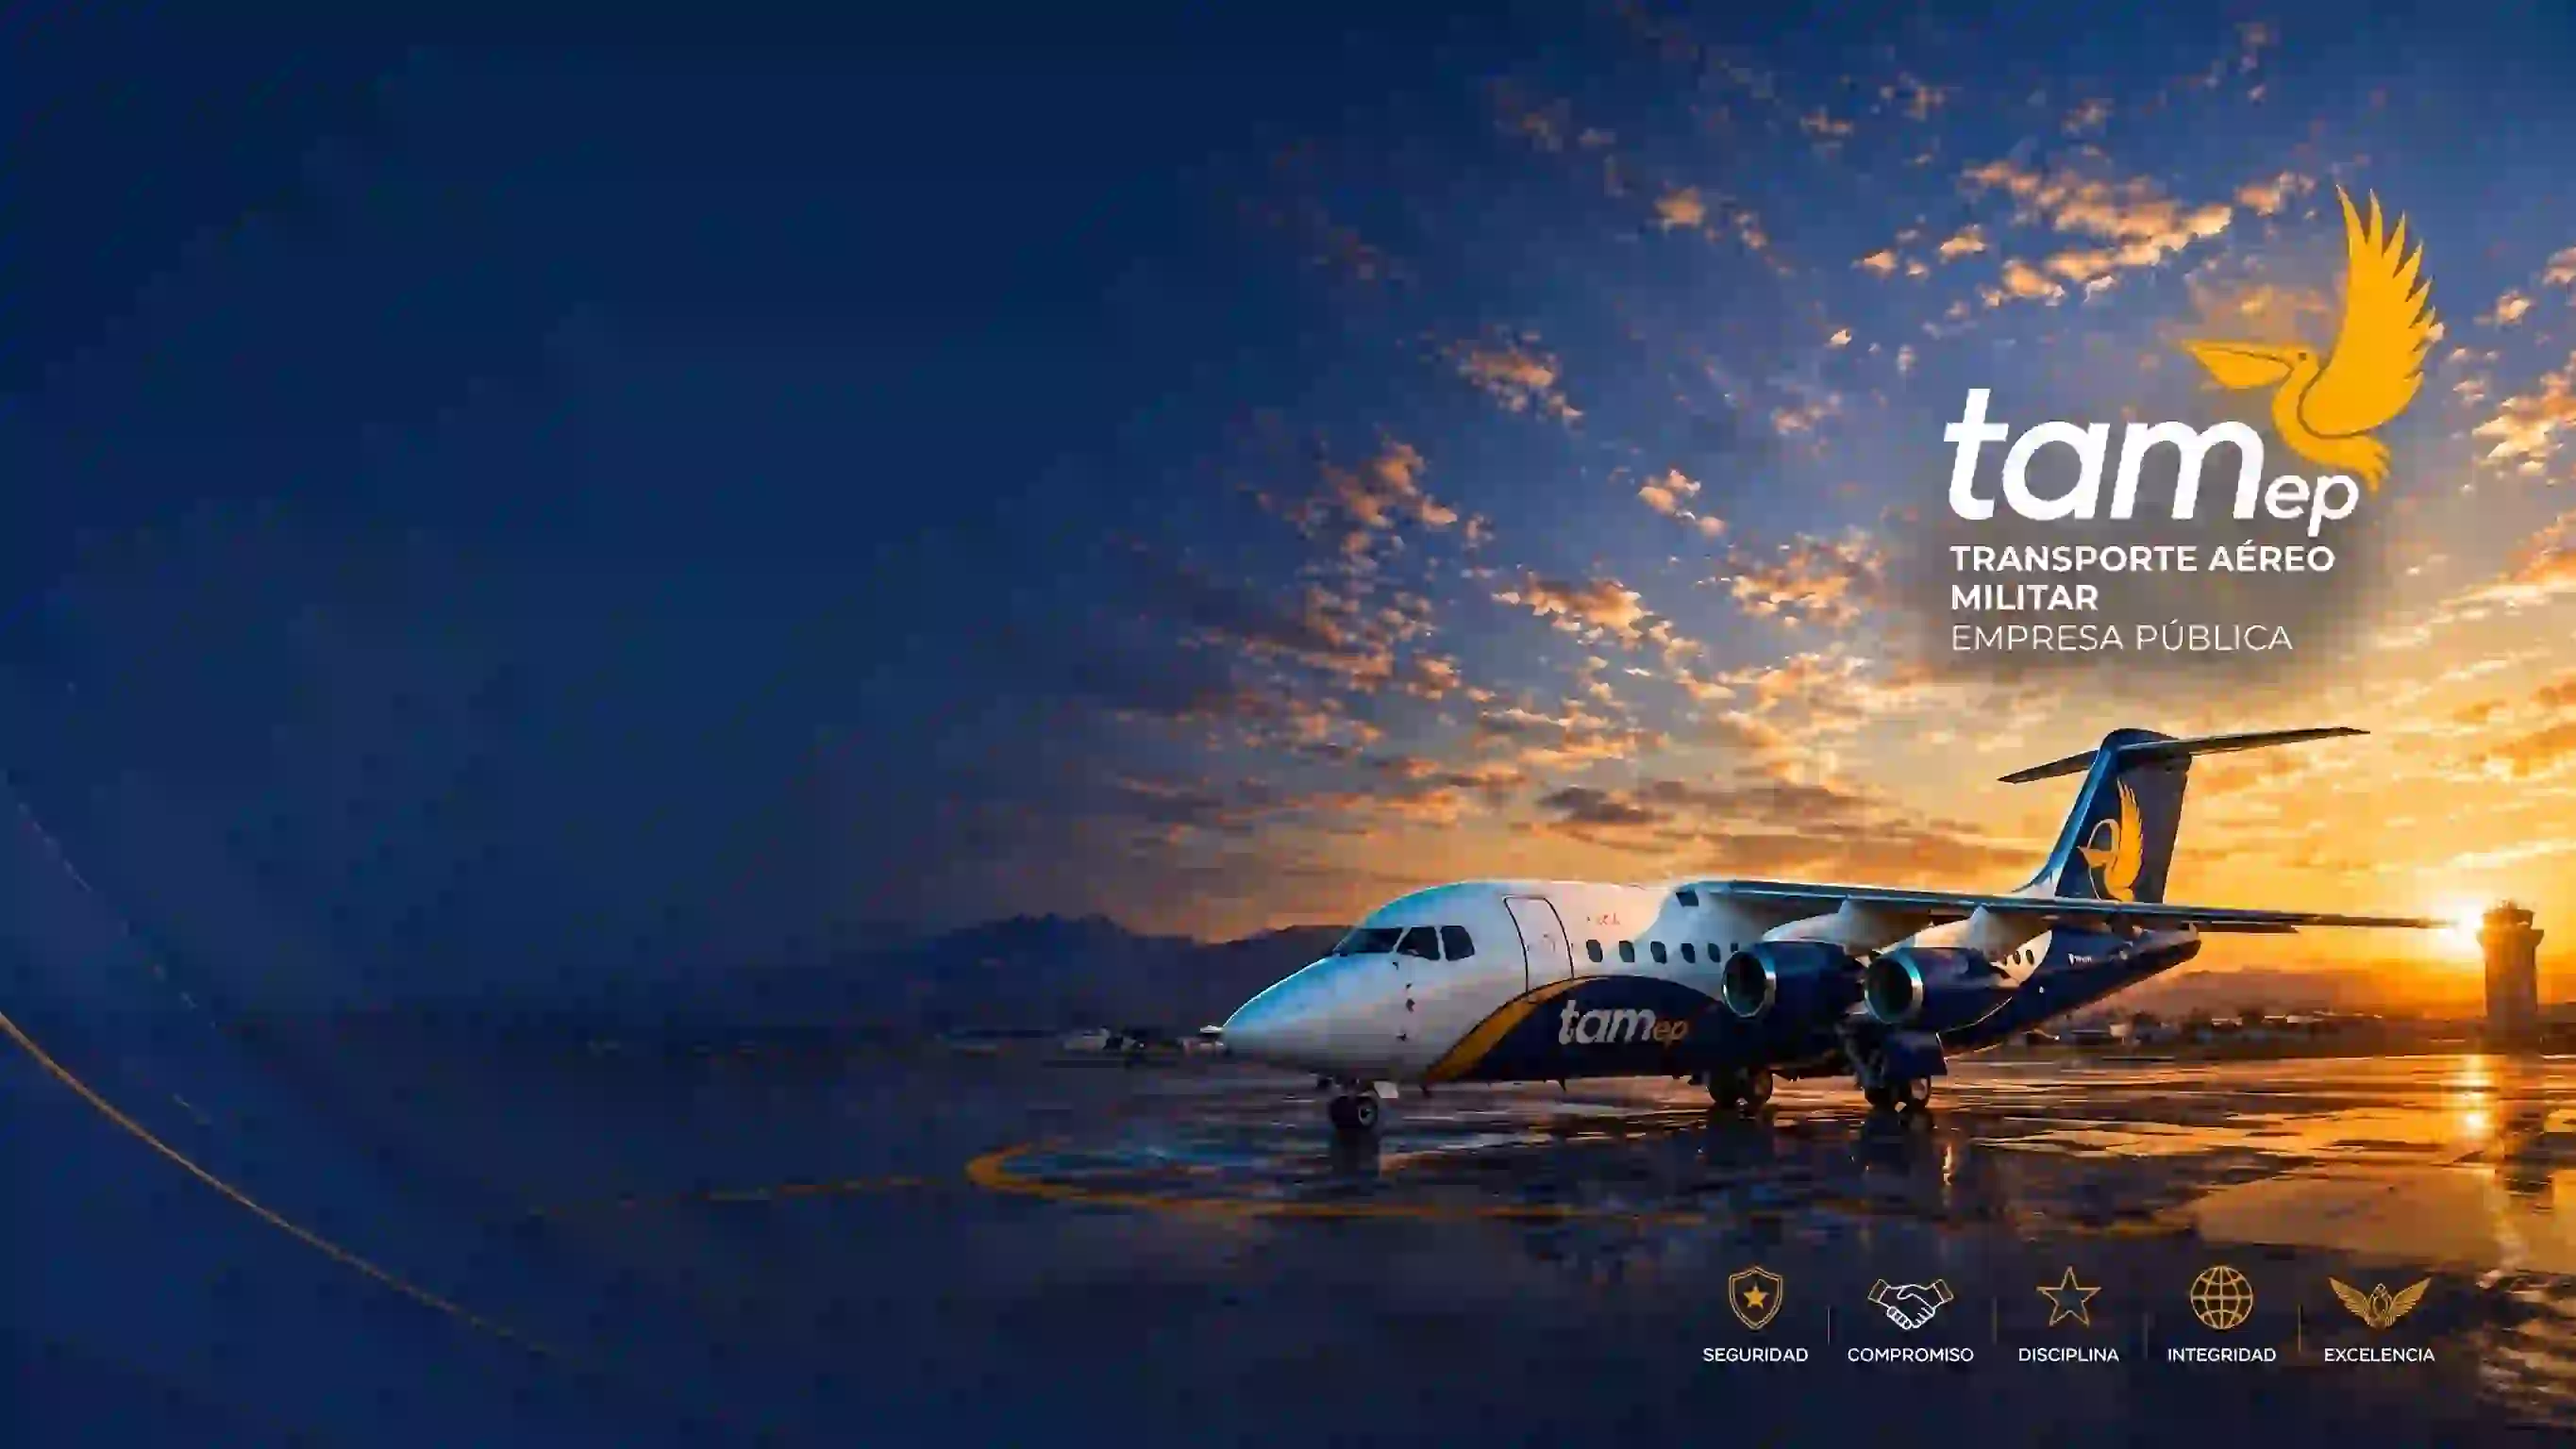
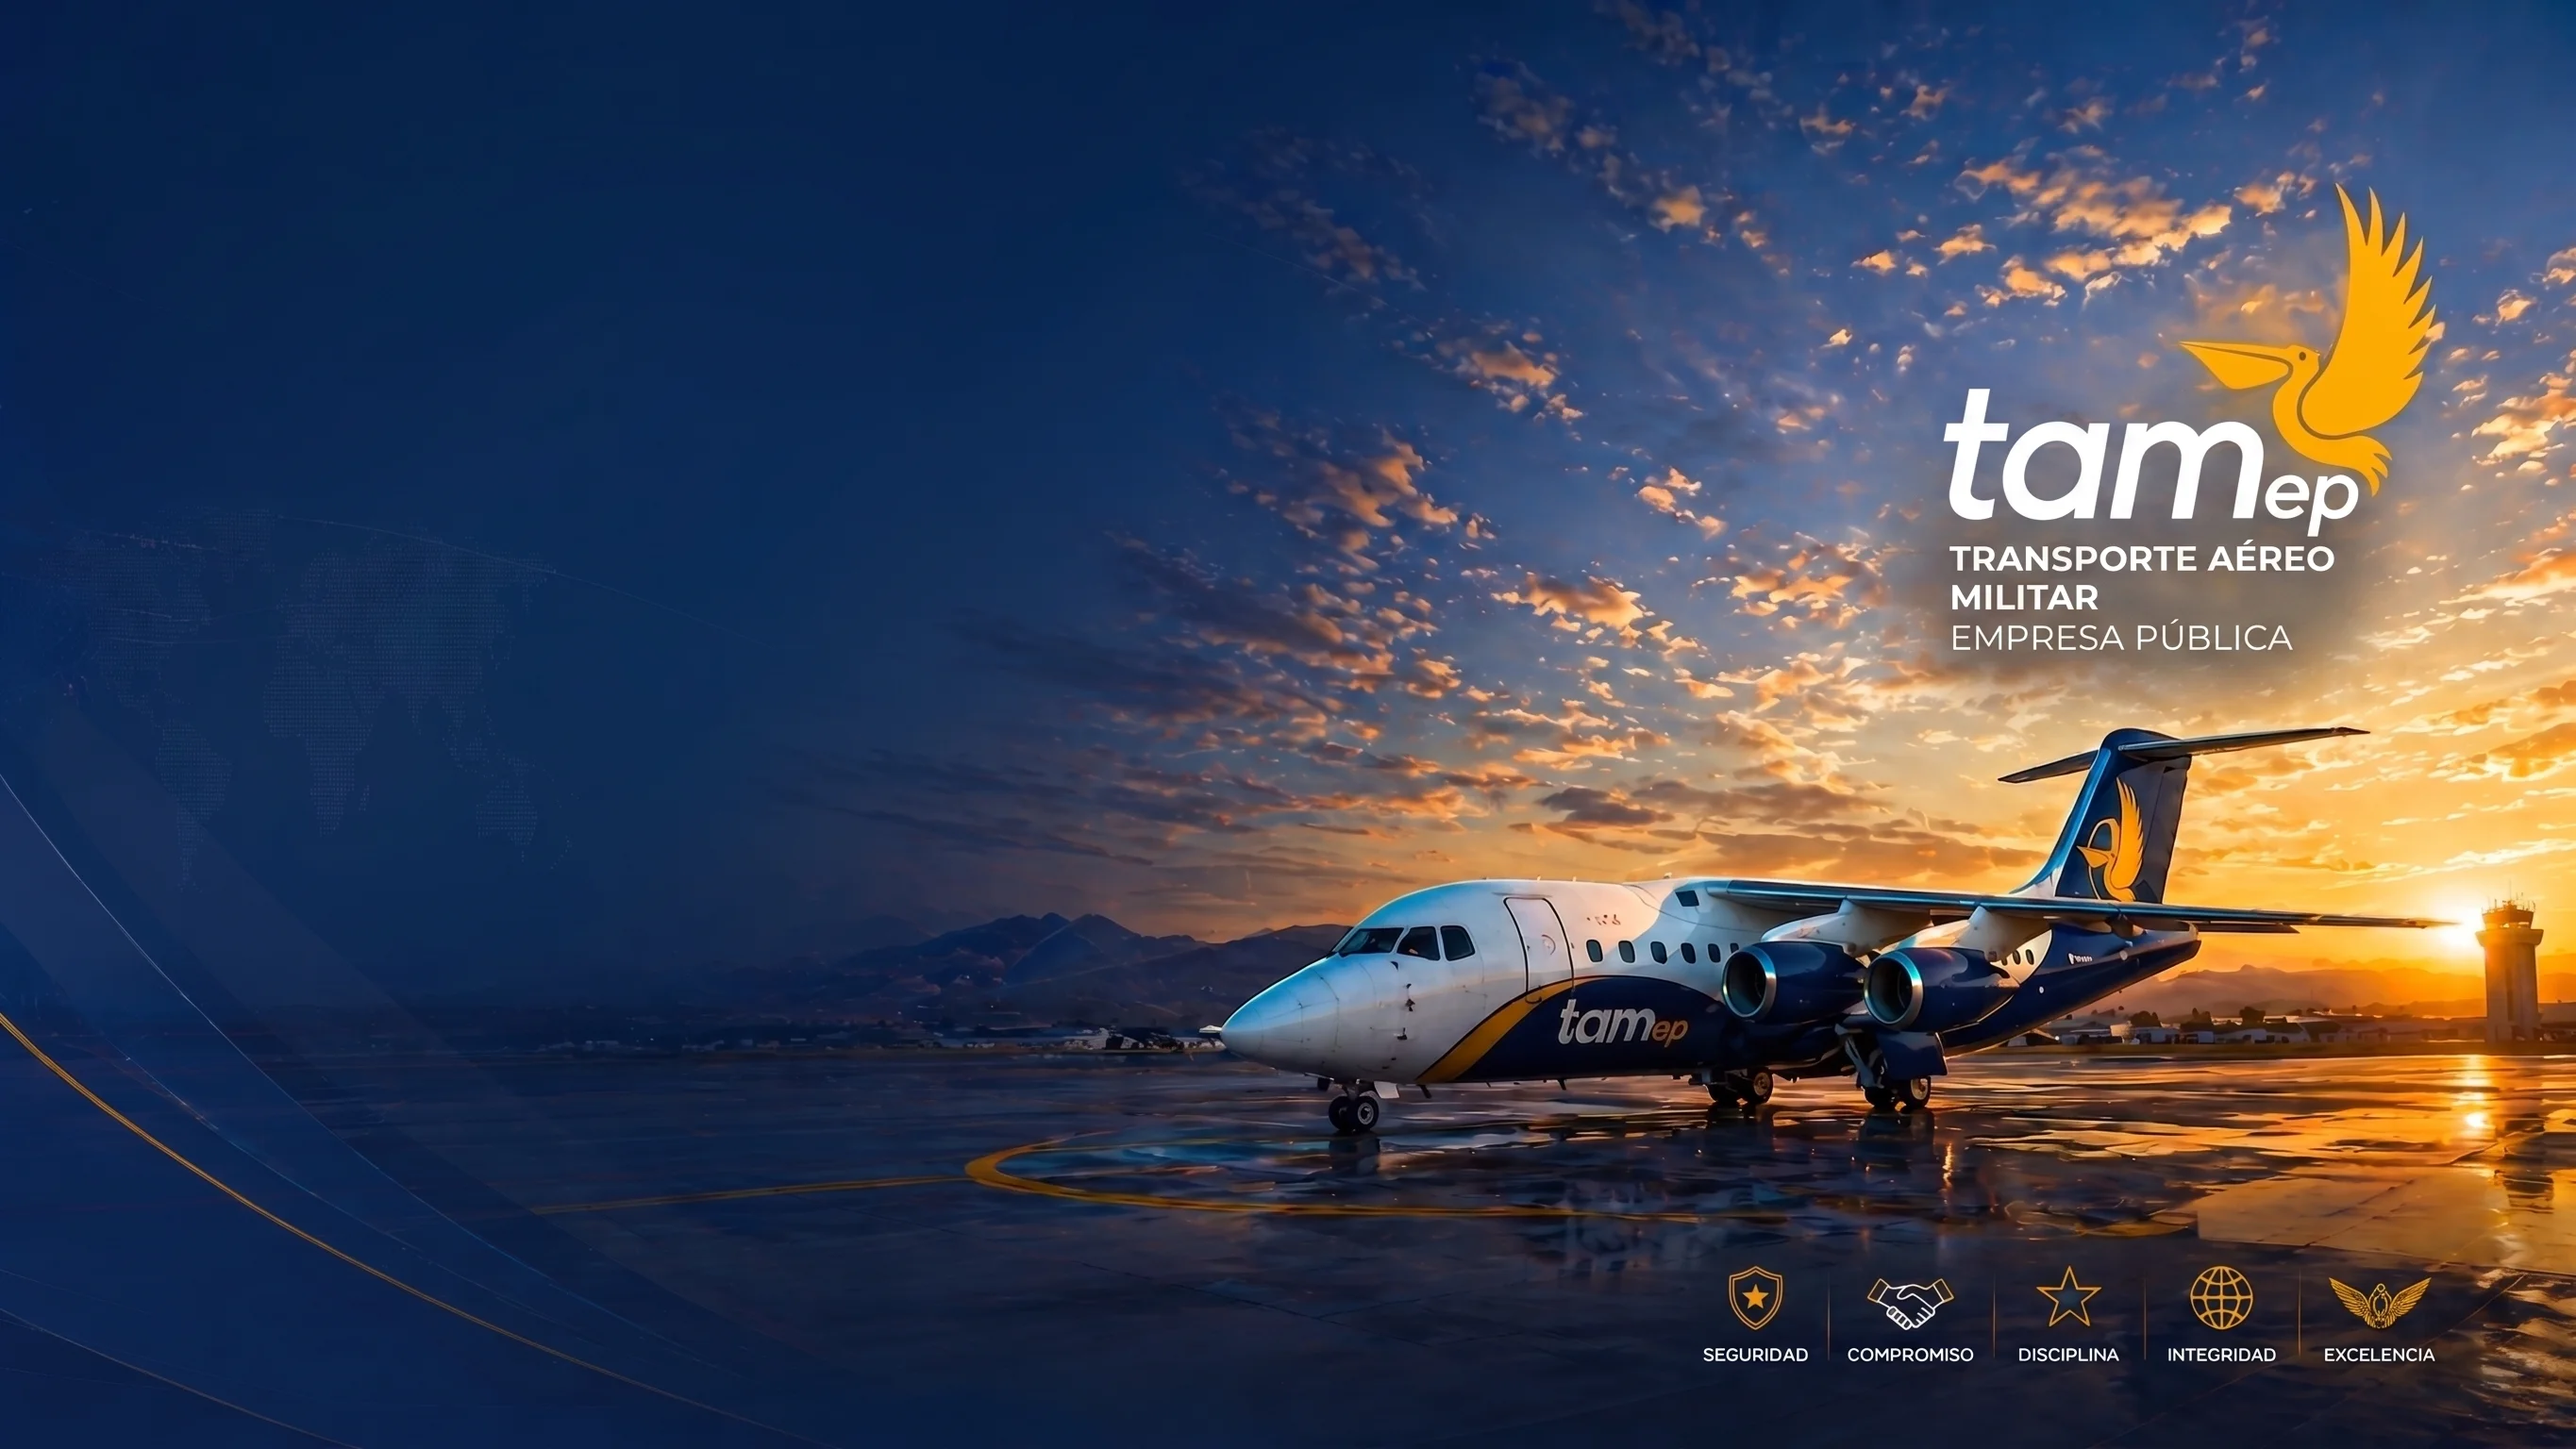
Change cambio de imagen y calidad al login

diff --git a/app/Providers/Filament/AdminPanelProvider.php b/app/Providers/Filament/AdminPanelProvider.php
@@ -7,7 +7,7 @@ use Filament\Http\Middleware\AuthenticateSession;
 use Filament\Http\Middleware\DisableBladeIconComponents;
 use Filament\Http\Middleware\DispatchServingFilamentEvent;
 use App\Filament\Pages\Auth\Login;
-// use Filament\Pages\Dashboard;
+use Filament\Pages\Dashboard;
 use Filament\Panel;
 use Filament\PanelProvider;
 use Filament\Support\Colors\Color;
@@ -33,6 +33,54 @@ class AdminPanelProvider extends PanelProvider
             ->login(Login::class)
             ->brandLogo(fn () => view('filament.admin.logo'))
             ->brandLogoHeight('3.5rem')
+            ->renderHook(
+                PanelsRenderHook::AUTH_LOGIN_FORM_BEFORE,
+                fn (): string => Blade::render('
+                    <style>
+                        @media (min-width: 1024px) {
+                            /* Imagen de fondo anclada a la derecha */
+                            body::before {
+                                content: "";
+                                position: fixed;
+                                top: 0;
+                                right: 0;
+                                width: 90vw;
+                                height: 100vh;
+                                background: url("{{ asset(\'images/fondo-tam.webp\') }}") no-repeat center center;
+                                background-size: cover;
+                                border-left: 6px solid #FFCD05;
+                                z-index: -1;
+                            }
+                            
+                            /* Forzamos el contenedor principal a la izquierda */
+                            .fi-simple-layout {
+                                position: absolute !important;
+                                top: 0 !important;
+                                left: 0 !important;
+                                width: 50vw !important;
+                                min-height: 100vh !important;
+                                display: flex !important;
+                                flex-direction: column !important;
+                                align-items: center !important;
+                                justify-content: center !important;
+                                padding: 0 2rem !important;
+                                margin: 0 !important;
+                                background-color: white !important;
+                            }
+                            
+                            /* Ajustamos la caja del formulario */
+                            .fi-simple-main {
+                                width: 100% !important;
+                                max-width: 420px !important;
+                                margin: 0 !important;
+                                box-shadow: none !important;
+                                border: none !important;
+                                background: transparent !important;
+                            }
+                        }
+                    </style>
+                ')
+            )
             ->colors([
                 'primary' => Color::hex('#19499C'),
                 'warning' => Color::hex('#FFCD05'),

diff --git a/resources/views/filament/pages/auth/login.blade.php b/resources/views/filament/pages/auth/login.blade.php
@@ -1,0 +1,57 @@
+<x-filament-panels::page.simple>
+    <style>
+        @media (min-width: 1024px) {
+            
+            /* 1. Clavamos la imagen en la mitad derecha como fondo fijo */
+            body::before {
+                content: "";
+                position: fixed;
+                top: 0;
+                right: 0;
+                width: 90vw;
+                height: 100vh;
+                background: url("{{ asset('images/fondo-tam.webp') }}") no-repeat center center;
+                background-size: cover;
+                border-left: 6px solid #FFCD05; /* Borde amarillo elegante */
+                z-index: -1; 
+            }
+
+            /* 2. Arrancamos el contenedor de Filament y lo obligamos a ser la mitad izquierda exacta */
+            .fi-simple-layout, 
+            div[class*="fi-simple-layout"] {
+                position: absolute !important;
+                top: 0 !important;
+                left: 0 !important;
+                width: 50vw !important; /* Exactamente la mitad izquierda */
+                min-height: 100vh !important; /* Altura completa de la pantalla */
+                display: flex !important;
+                flex-direction: column !important;
+                align-items: center !important; /* Lo centra horizontalmente en su mitad */
+                justify-content: center !important; /* Lo centra verticalmente perfecto */
+                padding: 0 2rem !important;
+                margin: 0 !important;
+                background-color: white !important;
+            }
+
+            /* 3. Le damos un ancho elegante a la caja del formulario */
+            main, .fi-simple-main {
+                width: 100% !important;
+                max-width: 420px !important; /* Ancho ideal para un formulario de login */
+                margin: 0 !important; 
+                box-shadow: none !important;
+                border: none !important;
+                background: transparent !important;
+            }
+        }
+    </style>
+
+    <form wire:submit="authenticate" class="space-y-6">
+        
+        {{ $this->form }}
+
+        <x-filament::button type="submit" size="lg" class="w-full mt-4">
+            Ingresar al sistema
+        </x-filament::button>
+
+    </form>
+</x-filament-panels::page.simple>

diff --git a/app/Filament/Pages/Auth/Login.php b/app/Filament/Pages/Auth/Login.php
@@ -6,6 +6,9 @@ use Filament\Auth\Pages\Login as BaseLogin;
 
 class Login extends BaseLogin
 {
+    // ELIMINAMOS la línea de "protected string $view..." 
+    // para que recupere la vista original de Filament.
+
     protected function getCredentialsFromFormData(array $data): array
     {
         return [
